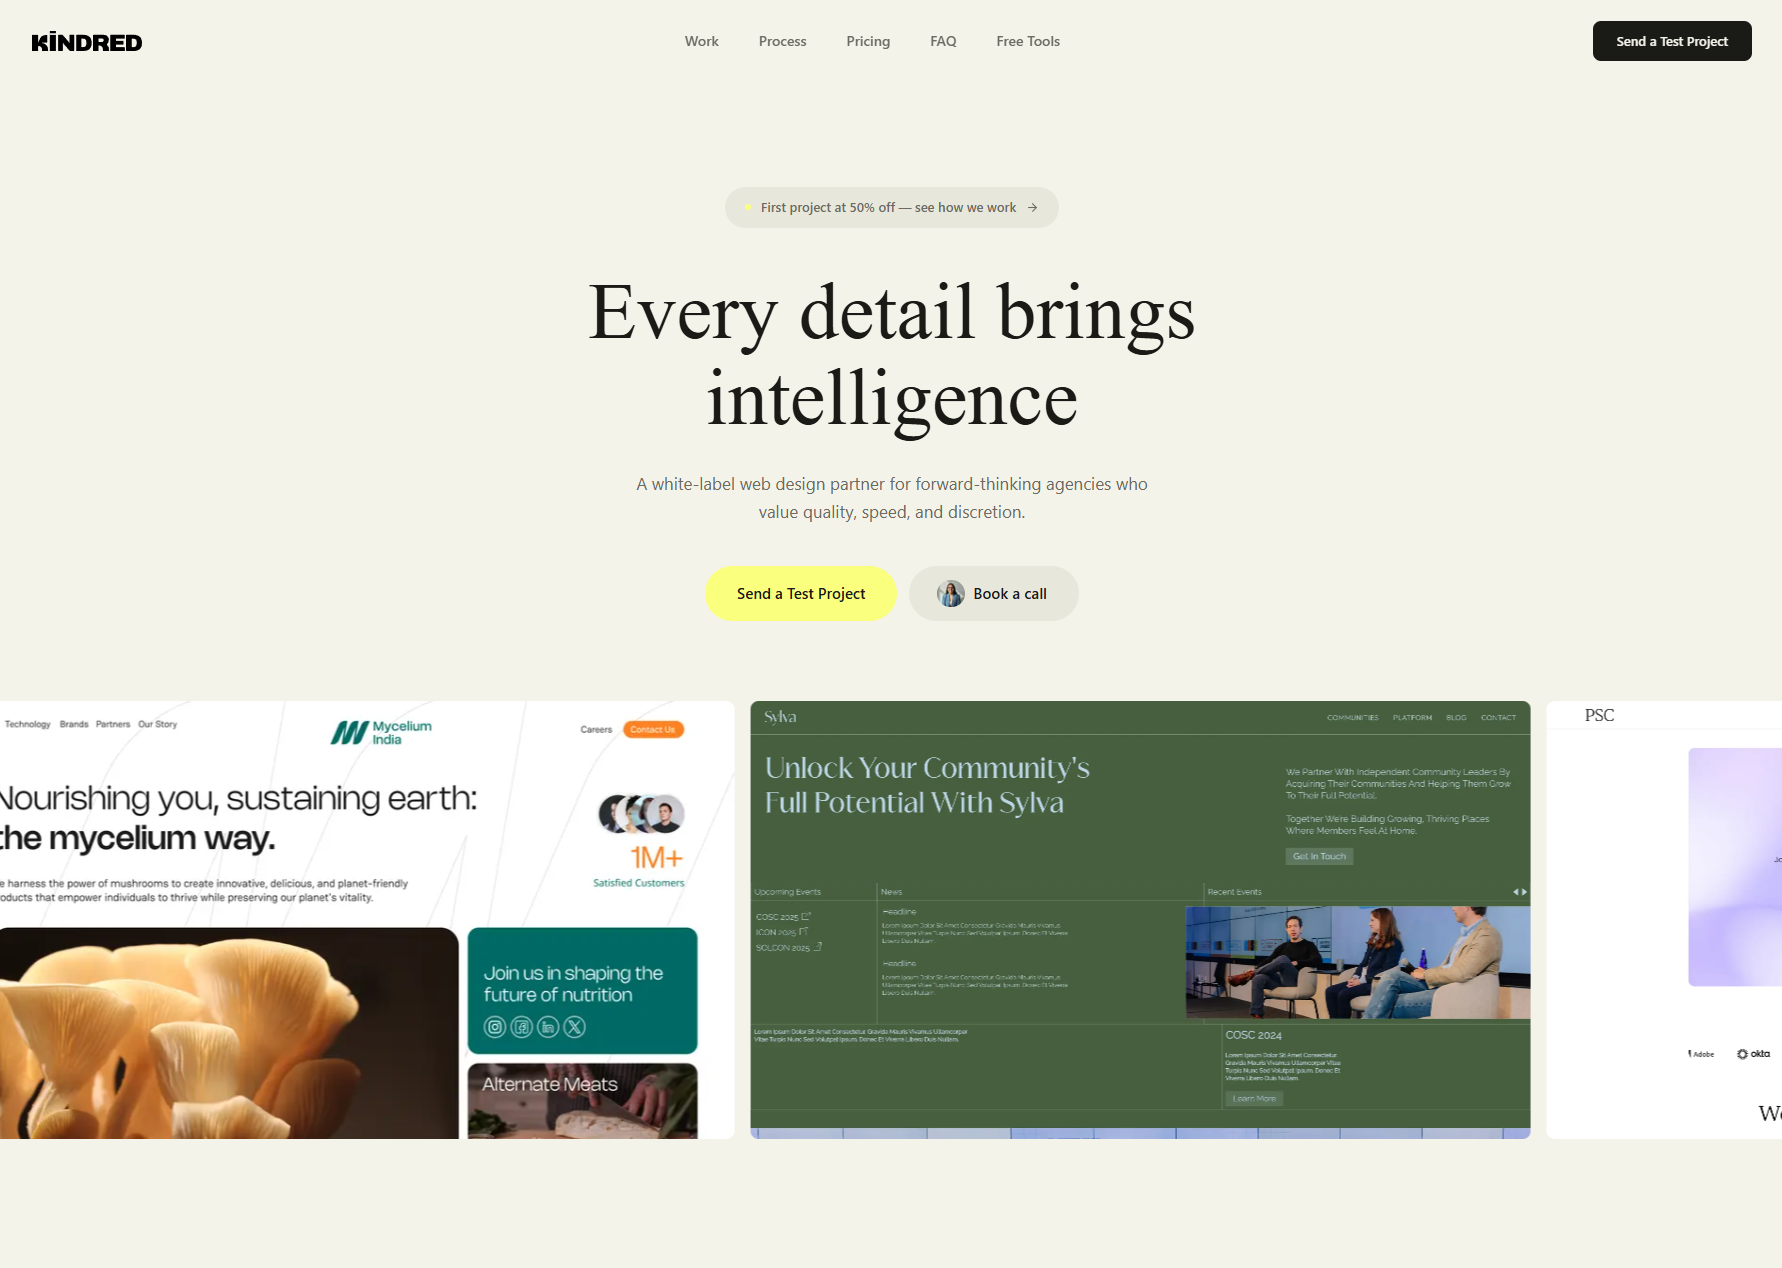
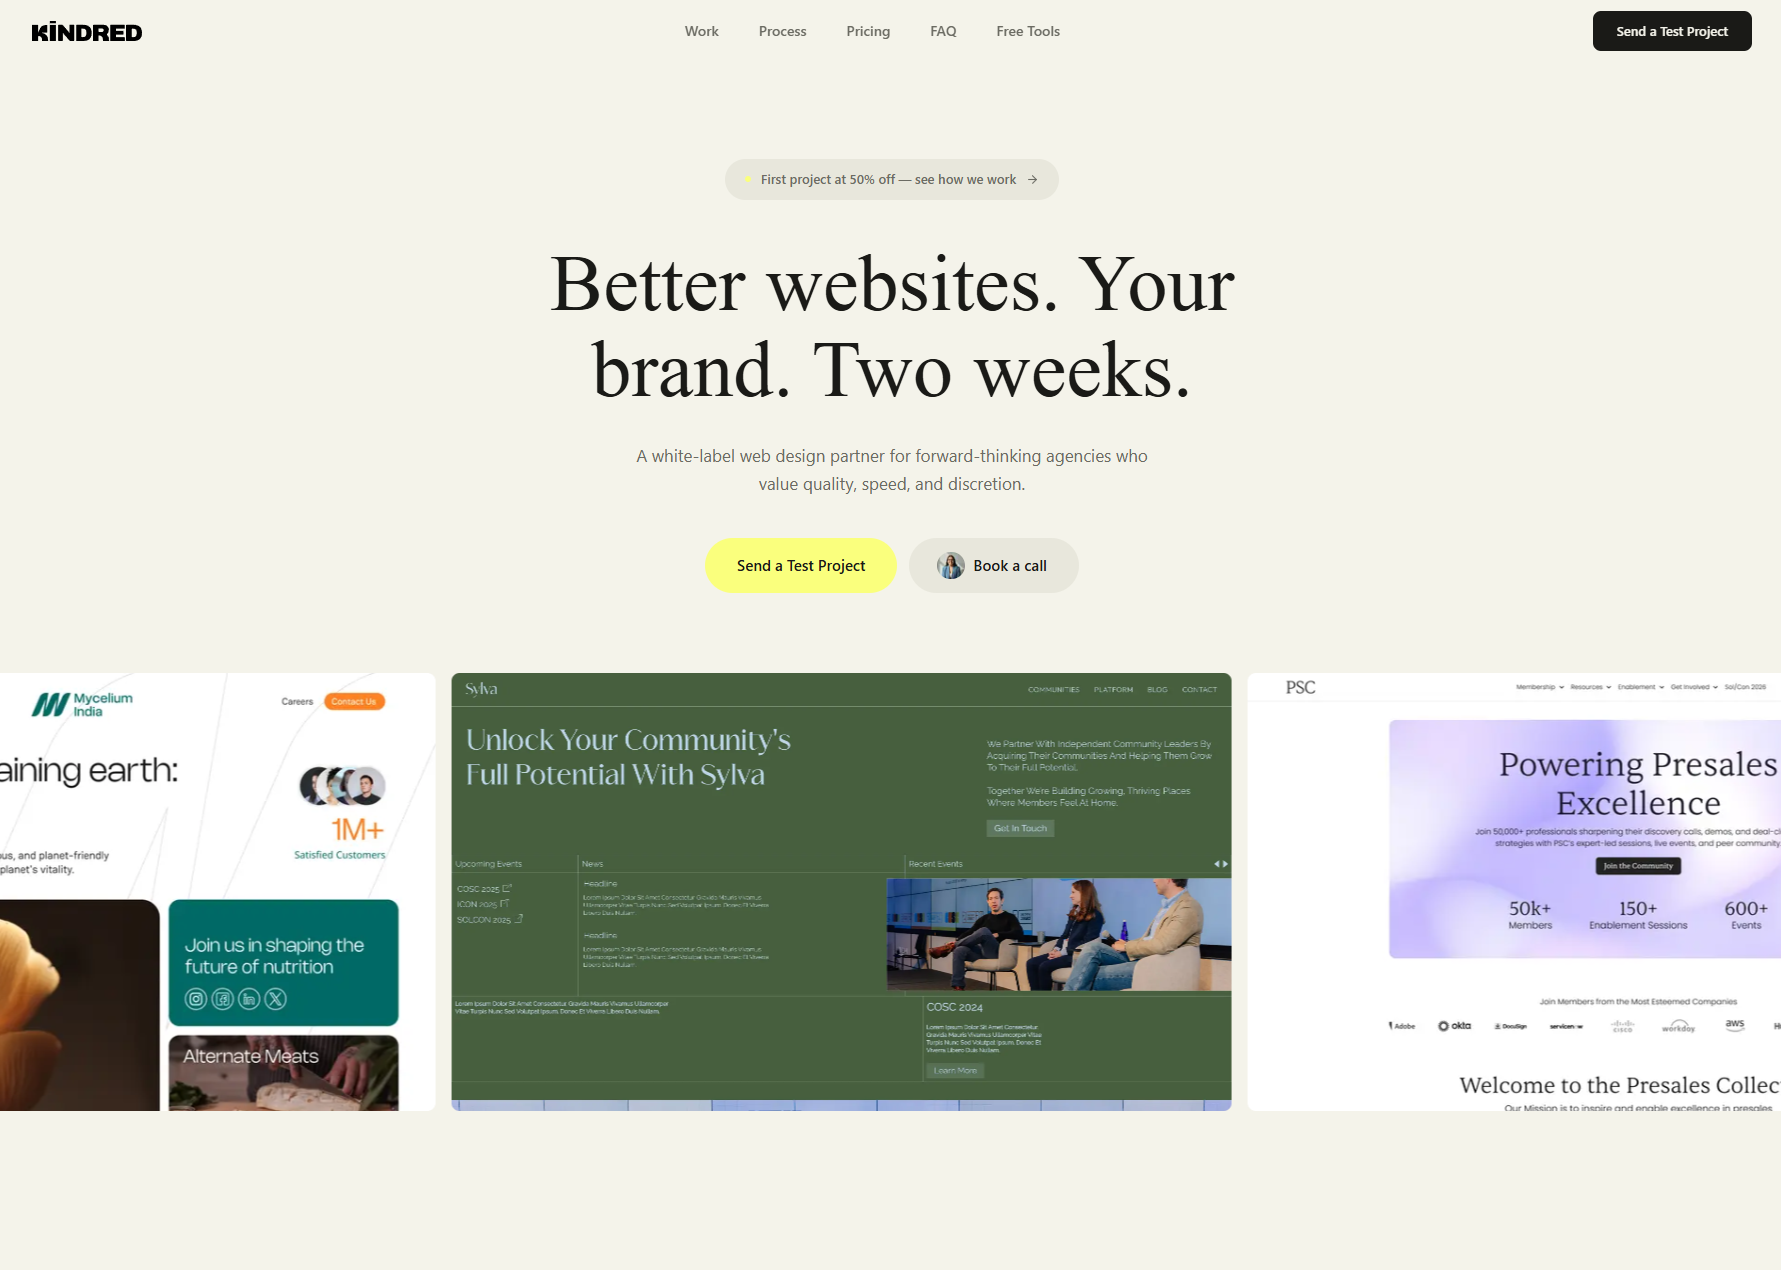
Update Kindred thumbnail with new homepage screenshot

diff --git a/js/config.js b/js/config.js
@@ -198,7 +198,7 @@ const CONFIG = {
         stackType: 'web',
         categoryTags: ['Websites', 'UI/UX', 'Development'],
         cards: [
-          { title: 'Kindred', color: '#6CC2EA', thumb: 'assets/screenshots/kindred.png?v=4', desc: 'Minimal studio site with bold type.' },
+          { title: 'Kindred', color: '#6CC2EA', thumb: 'assets/screenshots/kindred.png?v=5', desc: 'Minimal studio site with bold type.' },
           { title: 'Sylva', color: '#EA89B9', thumb: 'assets/screenshots/sylva.png?v=3', desc: 'Wellness brand with soft editorial feel.' },
           { title: 'Operators', color: '#A0D4A6', thumb: 'assets/screenshots/operators.png?v=3', desc: 'Community platform, clean and direct.' },
           { title: 'PreSales', color: '#F8C614', thumb: 'assets/screenshots/presales.png?v=3', desc: 'Professional collective, warm refresh.' },
@@ -477,7 +477,7 @@ const CONFIG = {
 
   // ── Web projects for slider ──
   webProjects: [
-    { id: 'web-kindred', title: 'Kindred Web Studio', url: 'https://kindredwebstudio.com', tags: ['Web Design', 'Development'], color: '#6CC2EA', screenshot: 'assets/screenshots/kindred.png?v=4' },
+    { id: 'web-kindred', title: 'Kindred Web Studio', url: 'https://kindredwebstudio.com', tags: ['Web Design', 'Development'], color: '#6CC2EA', screenshot: 'assets/screenshots/kindred.png?v=5' },
     { id: 'web-sylva', title: 'Sylva', url: 'https://withsylva.com', tags: ['Web Design', 'Development'], color: '#EA89B9', screenshot: 'assets/screenshots/sylva.png?v=3' },
     { id: 'web-operators', title: 'Operators', url: 'https://joinoperators.com', tags: ['Web Design', 'Development'], color: '#A0D4A6', screenshot: 'assets/screenshots/operators.png?v=3' },
     { id: 'web-presales', title: 'PreSales Collective', url: 'https://presalescollective.com', tags: ['Web Design', 'Development', 'Brand Refresh'], color: '#F8C614', screenshot: 'assets/screenshots/presales.png?v=3' },
